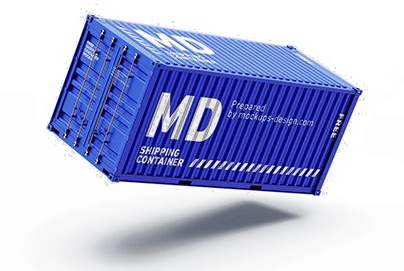
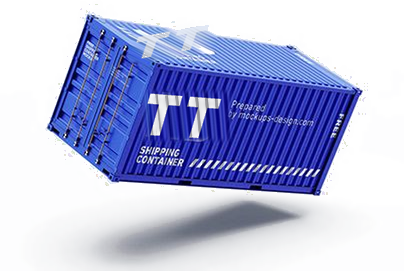
TT на контейнере и стрелка обмена у глобуса
Контейнер: плейсхолдер шаблона MD заменён на TT на обеих гранях.
Старая надпись стёрта восстановлением гофры — на борту рёбра
вертикальные, поэтому чистая строка тиражируется по вертикали
с поправкой на наклон; на крыше рёбра идут под 27°, там цвет
берётся продолжением ребра из-за границы области. Новые буквы
нарисованы в перспективе грани, с тенями рёбер, как на исходных.

Лицензионная подпись mockups-design.com на снимке сохранена.

Глобус: добавлена минималистичная стрелка обмена — тонкая дуга
с наконечником, знаки ₽ и ¥ по концам и подпись «Рубль на юань».
Сделана SVG поверх снимка в его системе координат; глобус опущен,
чтобы подпись не наезжала на строки в углу первого экрана.

Claude-Session: https://claude.ai/code/session_016yxpsRg59JxCWZXgza9mHb

Changed region(s): [[0.3564, 0.3247, 0.5941, 0.5314], [0.3267, 0.0886, 0.5347, 0.2362]]

diff --git a/assets/css/site.css b/assets/css/site.css
@@ -120,12 +120,40 @@ body.nav-open .hdr__burger span::after{transform:translateY(-6px) rotate(-45deg)
 }
 /* Глобус: белый на светлом не вырезается, поэтому растворяем кадр
    маской и умножением — фон снимка уходит в фон страницы */
-.hero__art--globe img{
-  height:clamp(260px,38vw,540px);
-  right:4%;top:41%;
+.hero__orb{
+  position:absolute;right:4%;top:47%;
+  transform:translateY(-50%);
+  height:clamp(260px,36vw,520px);
+  aspect-ratio:656/720;
+}
+.hero__orb img{
+  position:absolute;inset:0;
+  width:100%;height:100%;max-width:none;
+  transform:none;
   mix-blend-mode:multiply;
   -webkit-mask-image:radial-gradient(closest-side,#000 58%,rgba(0,0,0,.45) 78%,transparent 96%);
           mask-image:radial-gradient(closest-side,#000 58%,rgba(0,0,0,.45) 78%,transparent 96%);
+}
+
+/* Стрелка обмена поверх глобуса — тонкая дуга, знаки валют и подпись */
+.swap{position:absolute;inset:0;width:100%;height:100%;overflow:visible}
+.swap__arc{
+  fill:none;stroke:var(--accent);stroke-width:2;stroke-linecap:round;
+  opacity:.7;
+}
+.swap__tip{
+  fill:none;stroke:var(--accent);stroke-width:2.8;
+  stroke-linecap:round;stroke-linejoin:round;
+}
+.swap__cur{
+  fill:var(--accent);font-family:var(--display);font-weight:800;
+  font-size:46px;letter-spacing:-.02em;
+}
+.swap__cur--end{text-anchor:end}
+.swap__cap{
+  fill:var(--ink);font-family:var(--display);font-weight:700;
+  font-size:20px;letter-spacing:.2em;text-anchor:middle;
+  text-transform:uppercase;
 }
 @media (max-width:900px){
   .hero__grid{grid-template-columns:1fr}

diff --git a/exchange.html b/exchange.html
@@ -50,7 +50,16 @@
   <div class="grid-bg"></div>
   <div class="glow hero__glow"></div>
   <div class="hero__art hero__art--globe" aria-hidden="true">
-    <img src="assets/img/hero-globe.jpg" alt="" width="656" height="720" loading="eager" decoding="async">
+    <div class="hero__orb">
+      <img src="assets/img/hero-globe.jpg" alt="" width="656" height="720" loading="eager" decoding="async">
+      <svg class="swap" viewBox="0 0 656 720" fill="none" xmlns="http://www.w3.org/2000/svg">
+        <path class="swap__arc" d="M25 277A325 325 0 0 1 635 277"/>
+        <path class="swap__tip" d="M640 251 635 277 615 260"/>
+        <text class="swap__cur" x="14" y="258">₽</text>
+        <text class="swap__cur swap__cur--end" x="644" y="330">¥</text>
+        <text class="swap__cap" x="330" y="103">Рубль на юань</text>
+      </svg>
+    </div>
   </div>
 
   <div class="hero__in">

diff --git a/README.md b/README.md
@@ -77,13 +77,21 @@ python3 -m http.server 8000
 * `assets/img/hero-globe.jpg` — глобус в первом экране TT Exchange. Белый
   объект на белом фоне не вырезается, поэтому кадр растворён круглой маской
   и режимом наложения `multiply` — фон снимка уходит в фон страницы.
+  Поверх глобуса лежит SVG-стрелка обмена (`.swap` в `exchange.html`):
+  дуга, знаки ₽ и ¥ и подпись «Рубль на юань». Геометрия дуги задана
+  в системе координат снимка (центр сферы 330×388, радиус 279), так что
+  при замене снимка дугу надо пересчитать.
 
-> ⚠ Снимок контейнера — превью шаблона с чужими подписями: на борту
-> написано **MD SHIPPING CONTAINER** и **Prepared by mockups-design.com**.
-> Для публичного запуска нужен исходник по лицензии или своё фото
-> — замените `hero-container.png`, размеры подставляются через CSS.
-> Разрешение исходника тоже небольшое (404×271), на больших экранах
-> изображение мягкое.
+> Плейсхолдер шаблона **MD** на борту и на крыше заменён на **TT**:
+> старая надпись стёрта восстановлением гофры, новая нарисована
+> в перспективе грани с тенями рёбер.
+>
+> ⚠ При этом снимок остаётся превью чужого шаблона: сбоку сохранена
+> лицензионная подпись **Prepared by mockups-design.com** — снимать её
+> нельзя. Для публичного запуска нужен исходник шаблона по лицензии
+> или своё фото контейнера; замените `hero-container.png`, размеры
+> подставляются через CSS. Разрешение исходника небольшое (404×271),
+> на больших экранах изображение мягкое.
 
 > В шапке рядом со знаком название набрано шрифтом, а не картинкой. Причина
 > в самом логотипе: «дорога» под грузовиком нарисована **поверх** надписи
